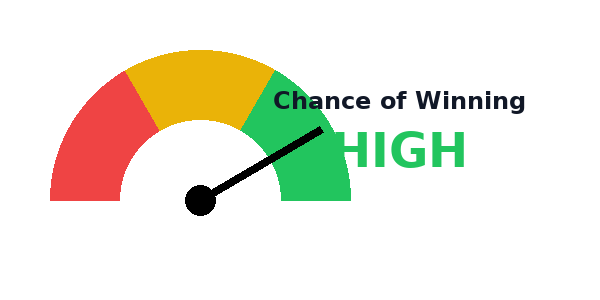
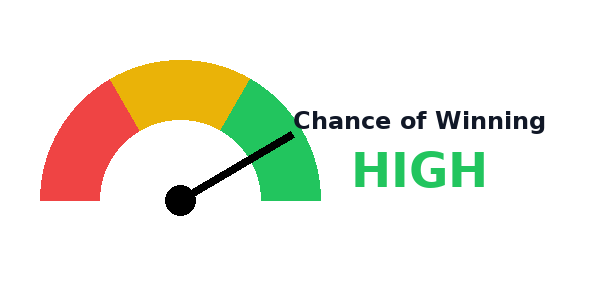
Checkpoint: Refined the RTP meter graphic by adjusting the text positioning and spacing to prevent the 'Chance of Winning' label from overlapping with the needle, ensuring a clean and professional appearance.

Changed region(s): [[0.12, 0.15, 0.93, 0.72], [0.06, 0.39, 0.12, 0.69]]

diff --git a/generate_rtp_meter.py b/generate_rtp_meter.py
@@ -22,9 +22,9 @@ def create_rtp_meter():
     draw = ImageDraw.Draw(img)
     
     # Meter Arc
-    center_x = 200
+    center_x = 180  # Moved slightly left
     center_y = 200
-    radius = 150
+    radius = 140    # Slightly smaller
     
     # Draw segments
     # Red (Low)
@@ -46,7 +46,7 @@ def create_rtp_meter():
     # Pointing to Green (High) ~ 330 degrees
     angle = 330
     angle_rad = math.radians(angle)
-    needle_len = 140
+    needle_len = 130
     end_x = center_x + needle_len * math.cos(angle_rad)
     end_y = center_y + needle_len * math.sin(angle_rad)
     
@@ -63,10 +63,10 @@ def create_rtp_meter():
         font_label = ImageFont.load_default()
         font_val = ImageFont.load_default()
         
-    # "Chance of Winning"
-    draw.text((400, 100), "Chance of Winning", font=font_label, fill=COLOR_TEXT, anchor="mm")
-    # "HIGH"
-    draw.text((400, 150), "HIGH", font=font_val, fill=COLOR_GREEN, anchor="mm")
+    # "Chance of Winning" - Moved right and up to avoid overlap
+    draw.text((420, 120), "Chance of Winning", font=font_label, fill=COLOR_TEXT, anchor="mm")
+    # "HIGH" - Below label
+    draw.text((420, 170), "HIGH", font=font_val, fill=COLOR_GREEN, anchor="mm")
     
     # Save
     output_path = os.path.join(OUTPUT_DIR, "rtp_meter.png")
